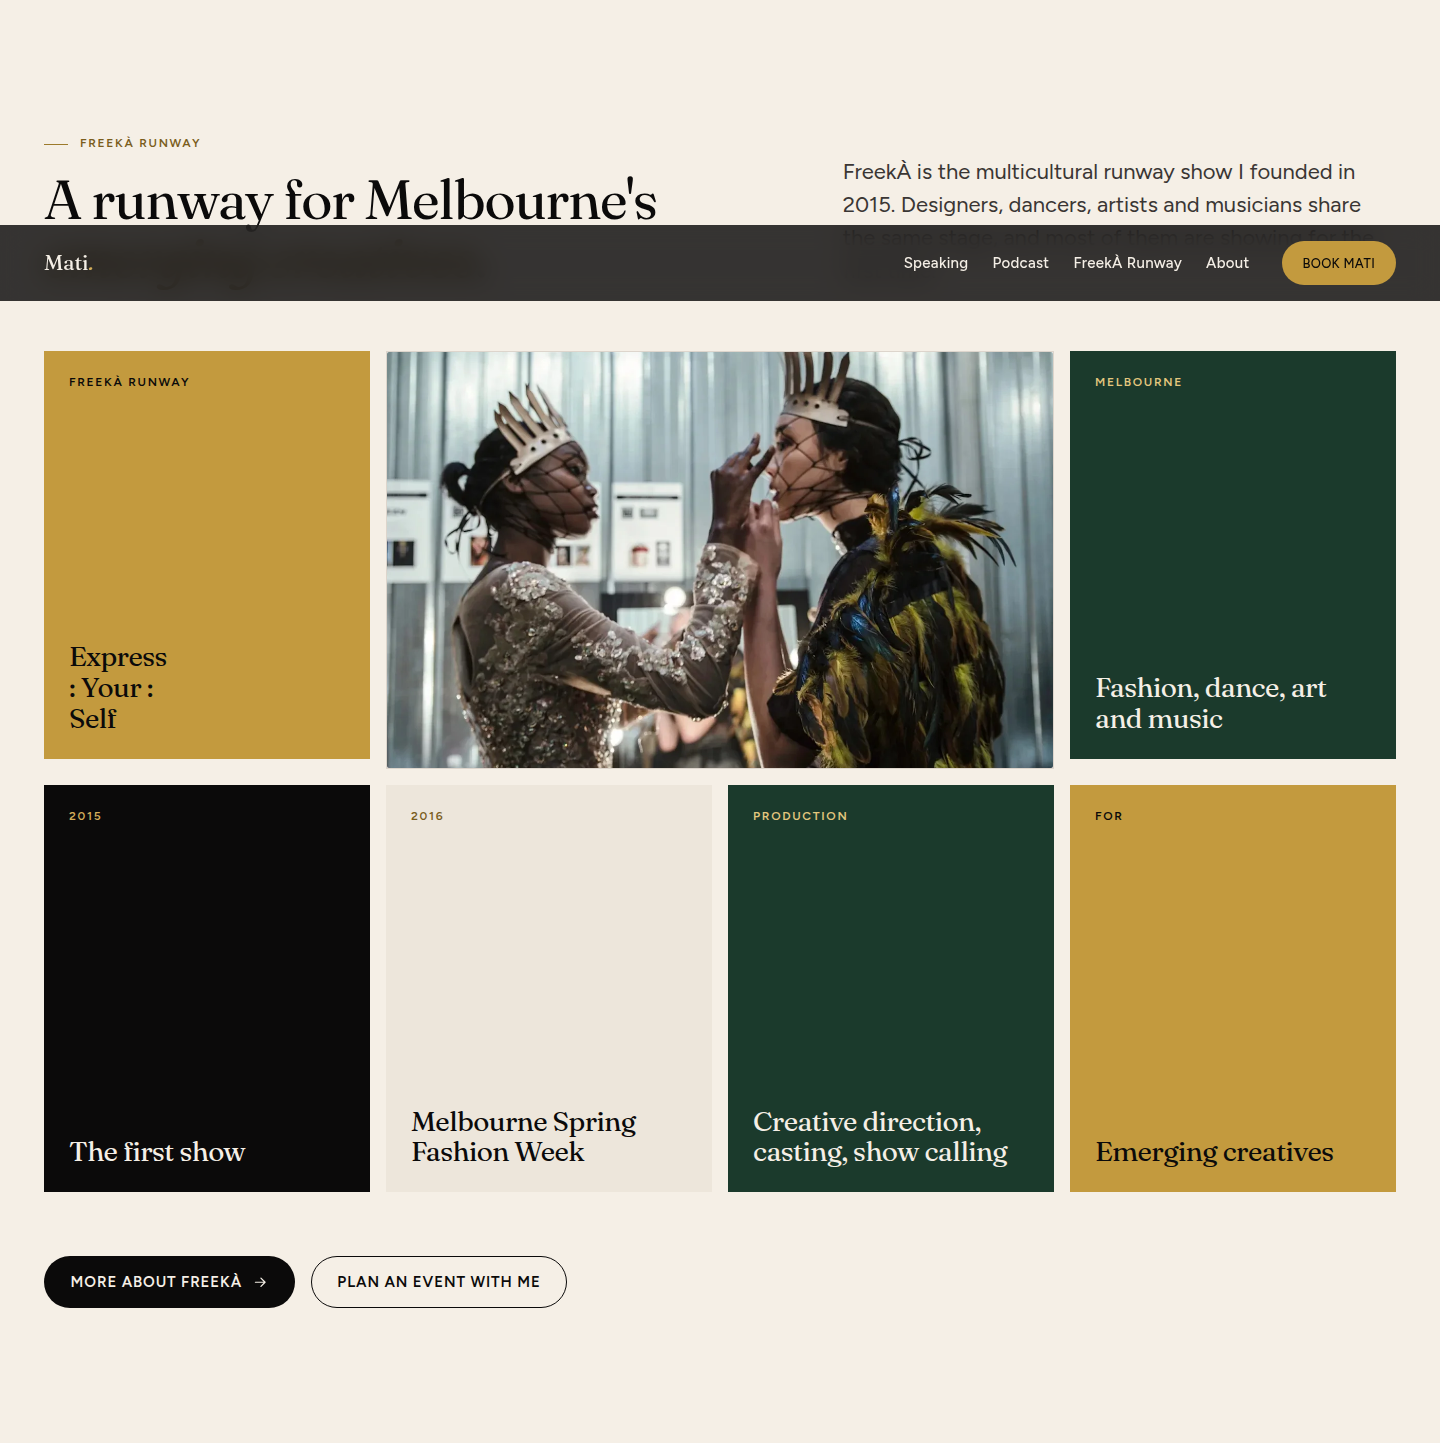
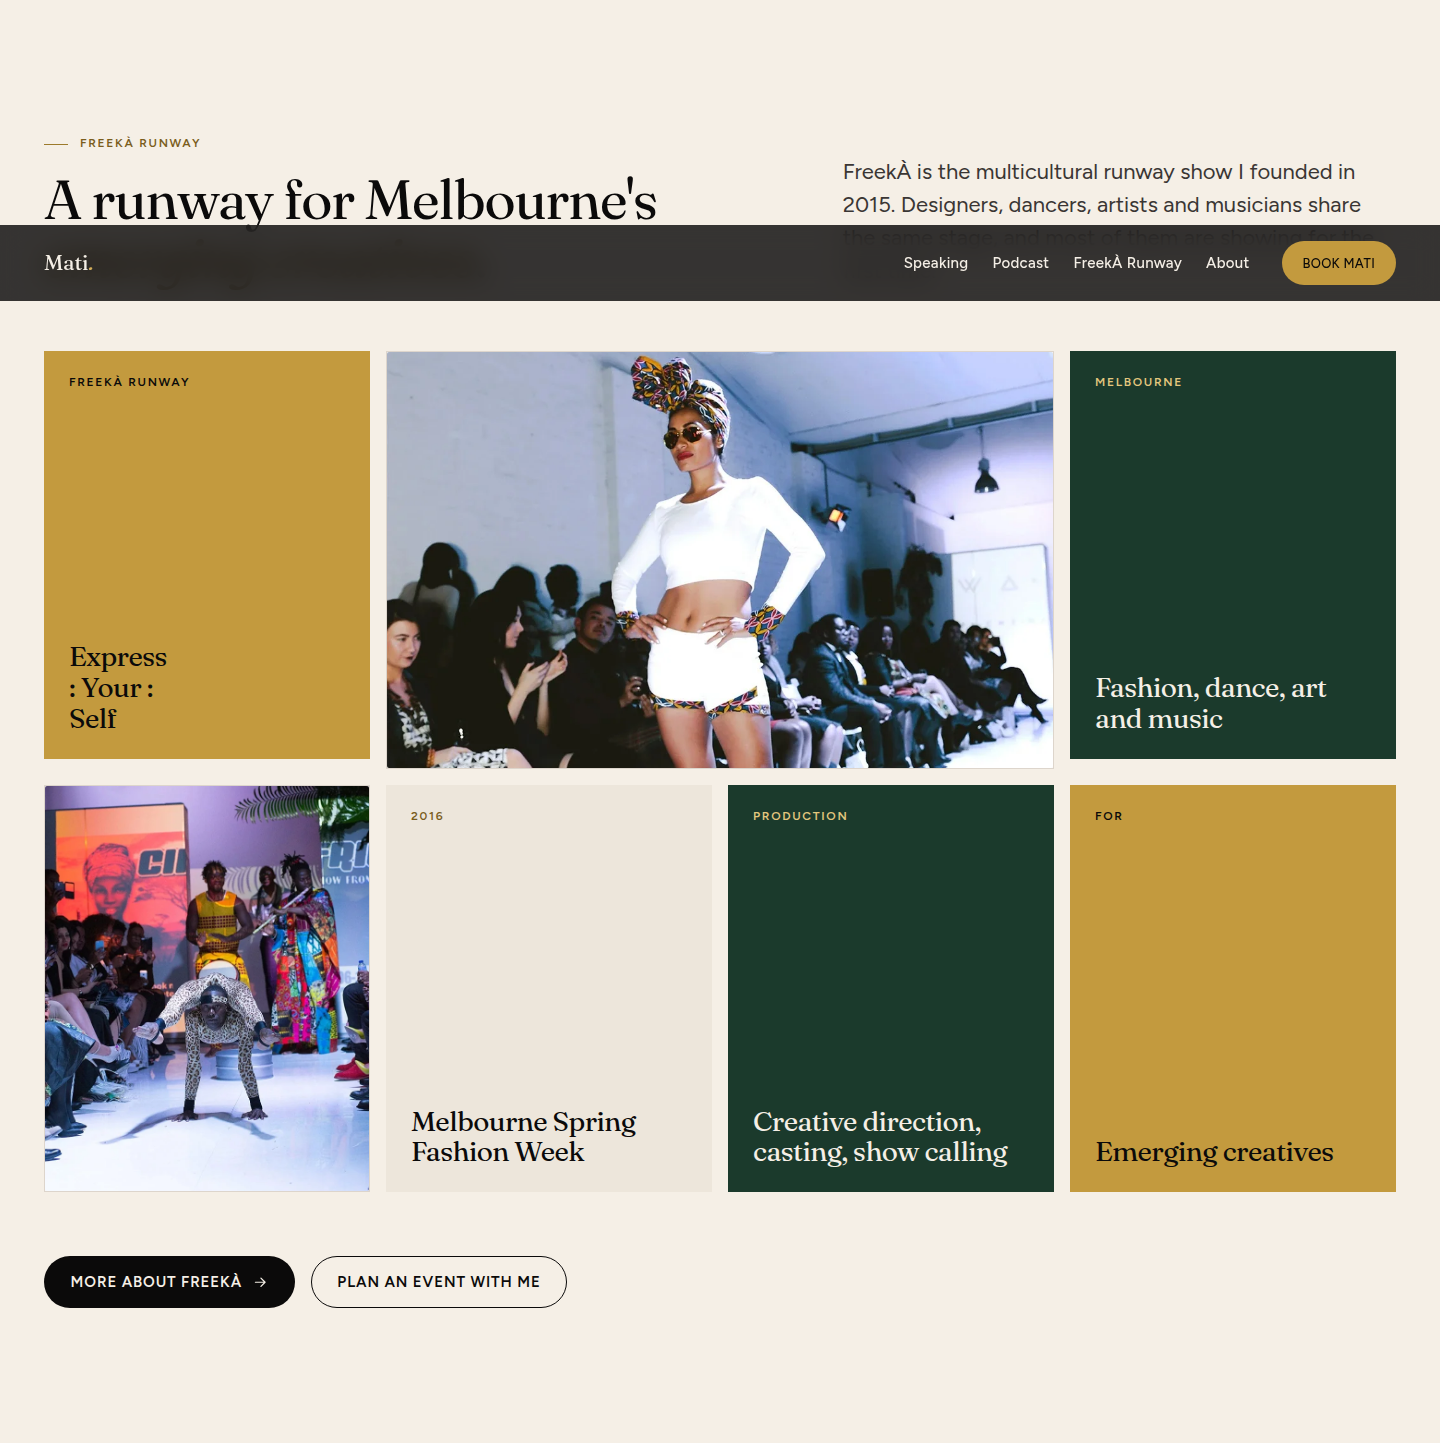
Mati site: FreekÀ 2015 runway photos, gallery now all photography
Claude-Session: https://claude.ai/code/session_01B7ofK1SHf5snMSMw1NCzFK

Changed region(s): [[0.0312, 0.2183, 0.75, 0.842]]

diff --git a/mati-chinyanda/docs/tools/pages/04-freeka.html b/mati-chinyanda/docs/tools/pages/04-freeka.html
@@ -33,15 +33,16 @@
 
 <section class="section section--flush-top" aria-labelledby="gallery-title">
   <div class="container">
-    <div class="section-head" data-reveal><p class="eyebrow">Gallery</p><h2 id="gallery-title">Moments from the <em>runway</em>.</h2></div>
+    <div class="section-head" data-reveal><p class="eyebrow">Gallery</p><h2 id="gallery-title">Moments from the <em>runway</em>.</h2><p class="lead" style="margin-top:var(--space-4)">The first show in 2015, and backstage at Melbourne Spring Fashion Week in 2016.</p></div>
     <div class="gallery" data-lightbox data-reveal-stagger>
-      <a href="/assets/img/freeka-01.webp" data-full="/assets/img/freeka-01.webp" data-caption="FreekÀ Runway 2016 for Melbourne Spring Fashion Week. Photo via Salt Magazine." class="tile--wide"><img src="/assets/img/freeka-01.webp" width="1050" height="700" loading="lazy" alt="Six models in African-print looks from FreekÀ Runway 2016"></a>
-      <a href="/assets/img/freeka-03.webp" data-full="/assets/img/freeka-03.webp" data-caption="Backstage at FreekÀ Runway 2016: a feathered look and a spiked crown. Photo: The Age."><img src="/assets/img/freeka-03.webp" width="1296" height="1919" loading="lazy" alt="Model in a spiked crown, netted veil and feathered shoulders backstage, another model in a head wrap and dashiki behind"></a>
+      <a href="/assets/img/freeka-07.webp" data-full="/assets/img/freeka-07.webp" data-caption="The first FreekÀ Runway, 2015." class="tile--wide"><img src="/assets/img/freeka-07.webp" width="1050" height="700" loading="lazy" alt="Model in a printed head wrap, white crop top and shorts on the runway at the first FreekÀ show in 2015, front row watching"></a>
+      <a href="/assets/img/freeka-05.webp" data-full="/assets/img/freeka-05.webp" data-caption="The first FreekÀ Runway, 2015. Dance, music and fashion on one stage."><img src="/assets/img/freeka-05.webp" width="701" height="1050" loading="lazy" alt="A dancer in leopard print bends backwards on the runway while drummers and a flautist perform behind him, FreekÀ Runway 2015"></a>
+      <a href="/assets/img/freeka-06.webp" data-full="/assets/img/freeka-06.webp" data-caption="The first FreekÀ Runway, 2015."><img src="/assets/img/freeka-06.webp" width="701" height="700" loading="lazy" alt="Model in a purple and yellow print crop top and white skirt on the runway at FreekÀ 2015"></a>
+      <a href="/assets/img/freeka-08.webp" data-full="/assets/img/freeka-08.webp" data-caption="The first FreekÀ Runway, 2015."><img src="/assets/img/freeka-08.webp" width="701" height="700" loading="lazy" alt="Model in a wax-print dress with a burgundy satin collar on the runway at FreekÀ 2015"></a>
+      <a href="/assets/img/freeka-03.webp" data-full="/assets/img/freeka-03.webp" data-caption="Backstage at FreekÀ Runway 2016 for Melbourne Spring Fashion Week. Photo: The Age."><img src="/assets/img/freeka-03.webp" width="1296" height="1919" loading="lazy" alt="Model in a spiked crown, netted veil and feathered shoulders backstage, another model in a head wrap and dashiki behind"></a>
+      <a href="/assets/img/freeka-01.webp" data-full="/assets/img/freeka-01.webp" data-caption="FreekÀ Runway 2016 for Melbourne Spring Fashion Week. Photo via Salt Magazine."><img src="/assets/img/freeka-01.webp" width="1050" height="700" loading="lazy" alt="Six models in African-print looks from FreekÀ Runway 2016"></a>
       <a href="/assets/img/freeka-04.webp" data-full="/assets/img/freeka-04.webp" data-caption="Backstage at FreekÀ Runway 2016. Photo: The Age."><img src="/assets/img/freeka-04.webp" width="1296" height="1944" loading="lazy" alt="Model in a printed hooded cape being styled backstage at FreekÀ Runway"></a>
-      <div class="tile tile--type tile--gold"><small>2015</small>The first show</div>
-      <div class="tile tile--type tile--ink"><small>2016</small>Melbourne Spring Fashion Week</div>
-      <a href="/assets/img/portrait-45.webp" data-full="/assets/img/portrait-45.webp" data-caption="Mati, founder and creative director of FreekÀ Runway"><img src="/assets/img/portrait-45.webp" width="1083" height="1354" loading="lazy" alt="Mati, founder of FreekÀ Runway, laughing in a black fur coat"></a>
-      <div class="tile tile--type tile--forest"><small>The cast</small>Designers, dancers, artists, musicians</div>
+      <a href="/assets/img/freeka-02.webp" data-full="/assets/img/freeka-02.webp" data-caption="Backstage at FreekÀ Runway 2016, Melbourne Spring Fashion Week. Photo: The Age." class="tile--wide"><img src="/assets/img/freeka-02.webp" width="1296" height="898" loading="lazy" alt="Two models in spiked crowns and netted veils backstage at FreekÀ Runway"></a>
     </div>
   </div>
 </section>

diff --git a/mati-chinyanda/freeka-runway.html b/mati-chinyanda/freeka-runway.html
@@ -70,15 +70,16 @@
 
 <section class="section section--flush-top" aria-labelledby="gallery-title">
   <div class="container">
-    <div class="section-head" data-reveal><p class="eyebrow">Gallery</p><h2 id="gallery-title">Moments from the <em>runway</em>.</h2></div>
+    <div class="section-head" data-reveal><p class="eyebrow">Gallery</p><h2 id="gallery-title">Moments from the <em>runway</em>.</h2><p class="lead" style="margin-top:var(--space-4)">The first show in 2015, and backstage at Melbourne Spring Fashion Week in 2016.</p></div>
     <div class="gallery" data-lightbox data-reveal-stagger>
-      <a href="/assets/img/freeka-01.webp" data-full="/assets/img/freeka-01.webp" data-caption="FreekÀ Runway 2016 for Melbourne Spring Fashion Week. Photo via Salt Magazine." class="tile--wide"><img src="/assets/img/freeka-01.webp" width="1050" height="700" loading="lazy" alt="Six models in African-print looks from FreekÀ Runway 2016"></a>
-      <a href="/assets/img/freeka-03.webp" data-full="/assets/img/freeka-03.webp" data-caption="Backstage at FreekÀ Runway 2016: a feathered look and a spiked crown. Photo: The Age."><img src="/assets/img/freeka-03.webp" width="1296" height="1919" loading="lazy" alt="Model in a spiked crown, netted veil and feathered shoulders backstage, another model in a head wrap and dashiki behind"></a>
+      <a href="/assets/img/freeka-07.webp" data-full="/assets/img/freeka-07.webp" data-caption="The first FreekÀ Runway, 2015." class="tile--wide"><img src="/assets/img/freeka-07.webp" width="1050" height="700" loading="lazy" alt="Model in a printed head wrap, white crop top and shorts on the runway at the first FreekÀ show in 2015, front row watching"></a>
+      <a href="/assets/img/freeka-05.webp" data-full="/assets/img/freeka-05.webp" data-caption="The first FreekÀ Runway, 2015. Dance, music and fashion on one stage."><img src="/assets/img/freeka-05.webp" width="701" height="1050" loading="lazy" alt="A dancer in leopard print bends backwards on the runway while drummers and a flautist perform behind him, FreekÀ Runway 2015"></a>
+      <a href="/assets/img/freeka-06.webp" data-full="/assets/img/freeka-06.webp" data-caption="The first FreekÀ Runway, 2015."><img src="/assets/img/freeka-06.webp" width="701" height="700" loading="lazy" alt="Model in a purple and yellow print crop top and white skirt on the runway at FreekÀ 2015"></a>
+      <a href="/assets/img/freeka-08.webp" data-full="/assets/img/freeka-08.webp" data-caption="The first FreekÀ Runway, 2015."><img src="/assets/img/freeka-08.webp" width="701" height="700" loading="lazy" alt="Model in a wax-print dress with a burgundy satin collar on the runway at FreekÀ 2015"></a>
+      <a href="/assets/img/freeka-03.webp" data-full="/assets/img/freeka-03.webp" data-caption="Backstage at FreekÀ Runway 2016 for Melbourne Spring Fashion Week. Photo: The Age."><img src="/assets/img/freeka-03.webp" width="1296" height="1919" loading="lazy" alt="Model in a spiked crown, netted veil and feathered shoulders backstage, another model in a head wrap and dashiki behind"></a>
+      <a href="/assets/img/freeka-01.webp" data-full="/assets/img/freeka-01.webp" data-caption="FreekÀ Runway 2016 for Melbourne Spring Fashion Week. Photo via Salt Magazine."><img src="/assets/img/freeka-01.webp" width="1050" height="700" loading="lazy" alt="Six models in African-print looks from FreekÀ Runway 2016"></a>
       <a href="/assets/img/freeka-04.webp" data-full="/assets/img/freeka-04.webp" data-caption="Backstage at FreekÀ Runway 2016. Photo: The Age."><img src="/assets/img/freeka-04.webp" width="1296" height="1944" loading="lazy" alt="Model in a printed hooded cape being styled backstage at FreekÀ Runway"></a>
-      <div class="tile tile--type tile--gold"><small>2015</small>The first show</div>
-      <div class="tile tile--type tile--ink"><small>2016</small>Melbourne Spring Fashion Week</div>
-      <a href="/assets/img/portrait-45.webp" data-full="/assets/img/portrait-45.webp" data-caption="Mati, founder and creative director of FreekÀ Runway"><img src="/assets/img/portrait-45.webp" width="1083" height="1354" loading="lazy" alt="Mati, founder of FreekÀ Runway, laughing in a black fur coat"></a>
-      <div class="tile tile--type tile--forest"><small>The cast</small>Designers, dancers, artists, musicians</div>
+      <a href="/assets/img/freeka-02.webp" data-full="/assets/img/freeka-02.webp" data-caption="Backstage at FreekÀ Runway 2016, Melbourne Spring Fashion Week. Photo: The Age." class="tile--wide"><img src="/assets/img/freeka-02.webp" width="1296" height="898" loading="lazy" alt="Two models in spiked crowns and netted veils backstage at FreekÀ Runway"></a>
     </div>
   </div>
 </section>

diff --git a/mati-chinyanda/docs/tools/pages/01-home.html b/mati-chinyanda/docs/tools/pages/01-home.html
@@ -188,9 +188,9 @@
     </div>
     <div class="gallery" data-reveal-stagger>
       <div class="tile tile--type tile--gold"><small>FreekÀ Runway</small>Express<br>: Your :<br>Self</div>
-      <a href="/assets/img/freeka-02.webp" data-full="/assets/img/freeka-02.webp" data-caption="Backstage at FreekÀ Runway 2016, Melbourne Spring Fashion Week. Photo: The Age." class="tile--wide"><img src="/assets/img/freeka-02.webp" width="1296" height="889" loading="lazy" alt="Two models in spiked crowns and netted veils backstage at FreekÀ Runway"></a>
+      <a href="/assets/img/freeka-07.webp" data-full="/assets/img/freeka-07.webp" data-caption="The first FreekÀ Runway, 2015." class="tile--wide"><img src="/assets/img/freeka-07.webp" width="1050" height="700" loading="lazy" alt="Model in a printed head wrap on the runway at the first FreekÀ show in 2015"></a>
       <div class="tile tile--type tile--forest"><small>Melbourne</small>Fashion, dance, art and music</div>
-      <div class="tile tile--type tile--ink"><small>2015</small>The first show</div>
+      <a href="/assets/img/freeka-05.webp" data-full="/assets/img/freeka-05.webp" data-caption="The first FreekÀ Runway, 2015."><img src="/assets/img/freeka-05.webp" width="701" height="1050" loading="lazy" alt="A dancer in leopard print performs on the runway at FreekÀ 2015 with drummers behind"></a>
       <div class="tile tile--type"><small>2016</small>Melbourne Spring Fashion Week</div>
       <div class="tile tile--type tile--forest"><small>Production</small>Creative direction, casting, show calling</div>
       <div class="tile tile--type tile--gold"><small>For</small>Emerging creatives</div>

diff --git a/mati-chinyanda/index.html b/mati-chinyanda/index.html
@@ -220,9 +220,9 @@
     </div>
     <div class="gallery" data-reveal-stagger>
       <div class="tile tile--type tile--gold"><small>FreekÀ Runway</small>Express<br>: Your :<br>Self</div>
-      <a href="/assets/img/freeka-02.webp" data-full="/assets/img/freeka-02.webp" data-caption="Backstage at FreekÀ Runway 2016, Melbourne Spring Fashion Week. Photo: The Age." class="tile--wide"><img src="/assets/img/freeka-02.webp" width="1296" height="889" loading="lazy" alt="Two models in spiked crowns and netted veils backstage at FreekÀ Runway"></a>
+      <a href="/assets/img/freeka-07.webp" data-full="/assets/img/freeka-07.webp" data-caption="The first FreekÀ Runway, 2015." class="tile--wide"><img src="/assets/img/freeka-07.webp" width="1050" height="700" loading="lazy" alt="Model in a printed head wrap on the runway at the first FreekÀ show in 2015"></a>
       <div class="tile tile--type tile--forest"><small>Melbourne</small>Fashion, dance, art and music</div>
-      <div class="tile tile--type tile--ink"><small>2015</small>The first show</div>
+      <a href="/assets/img/freeka-05.webp" data-full="/assets/img/freeka-05.webp" data-caption="The first FreekÀ Runway, 2015."><img src="/assets/img/freeka-05.webp" width="701" height="1050" loading="lazy" alt="A dancer in leopard print performs on the runway at FreekÀ 2015 with drummers behind"></a>
       <div class="tile tile--type"><small>2016</small>Melbourne Spring Fashion Week</div>
       <div class="tile tile--type tile--forest"><small>Production</small>Creative direction, casting, show calling</div>
       <div class="tile tile--type tile--gold"><small>For</small>Emerging creatives</div>
